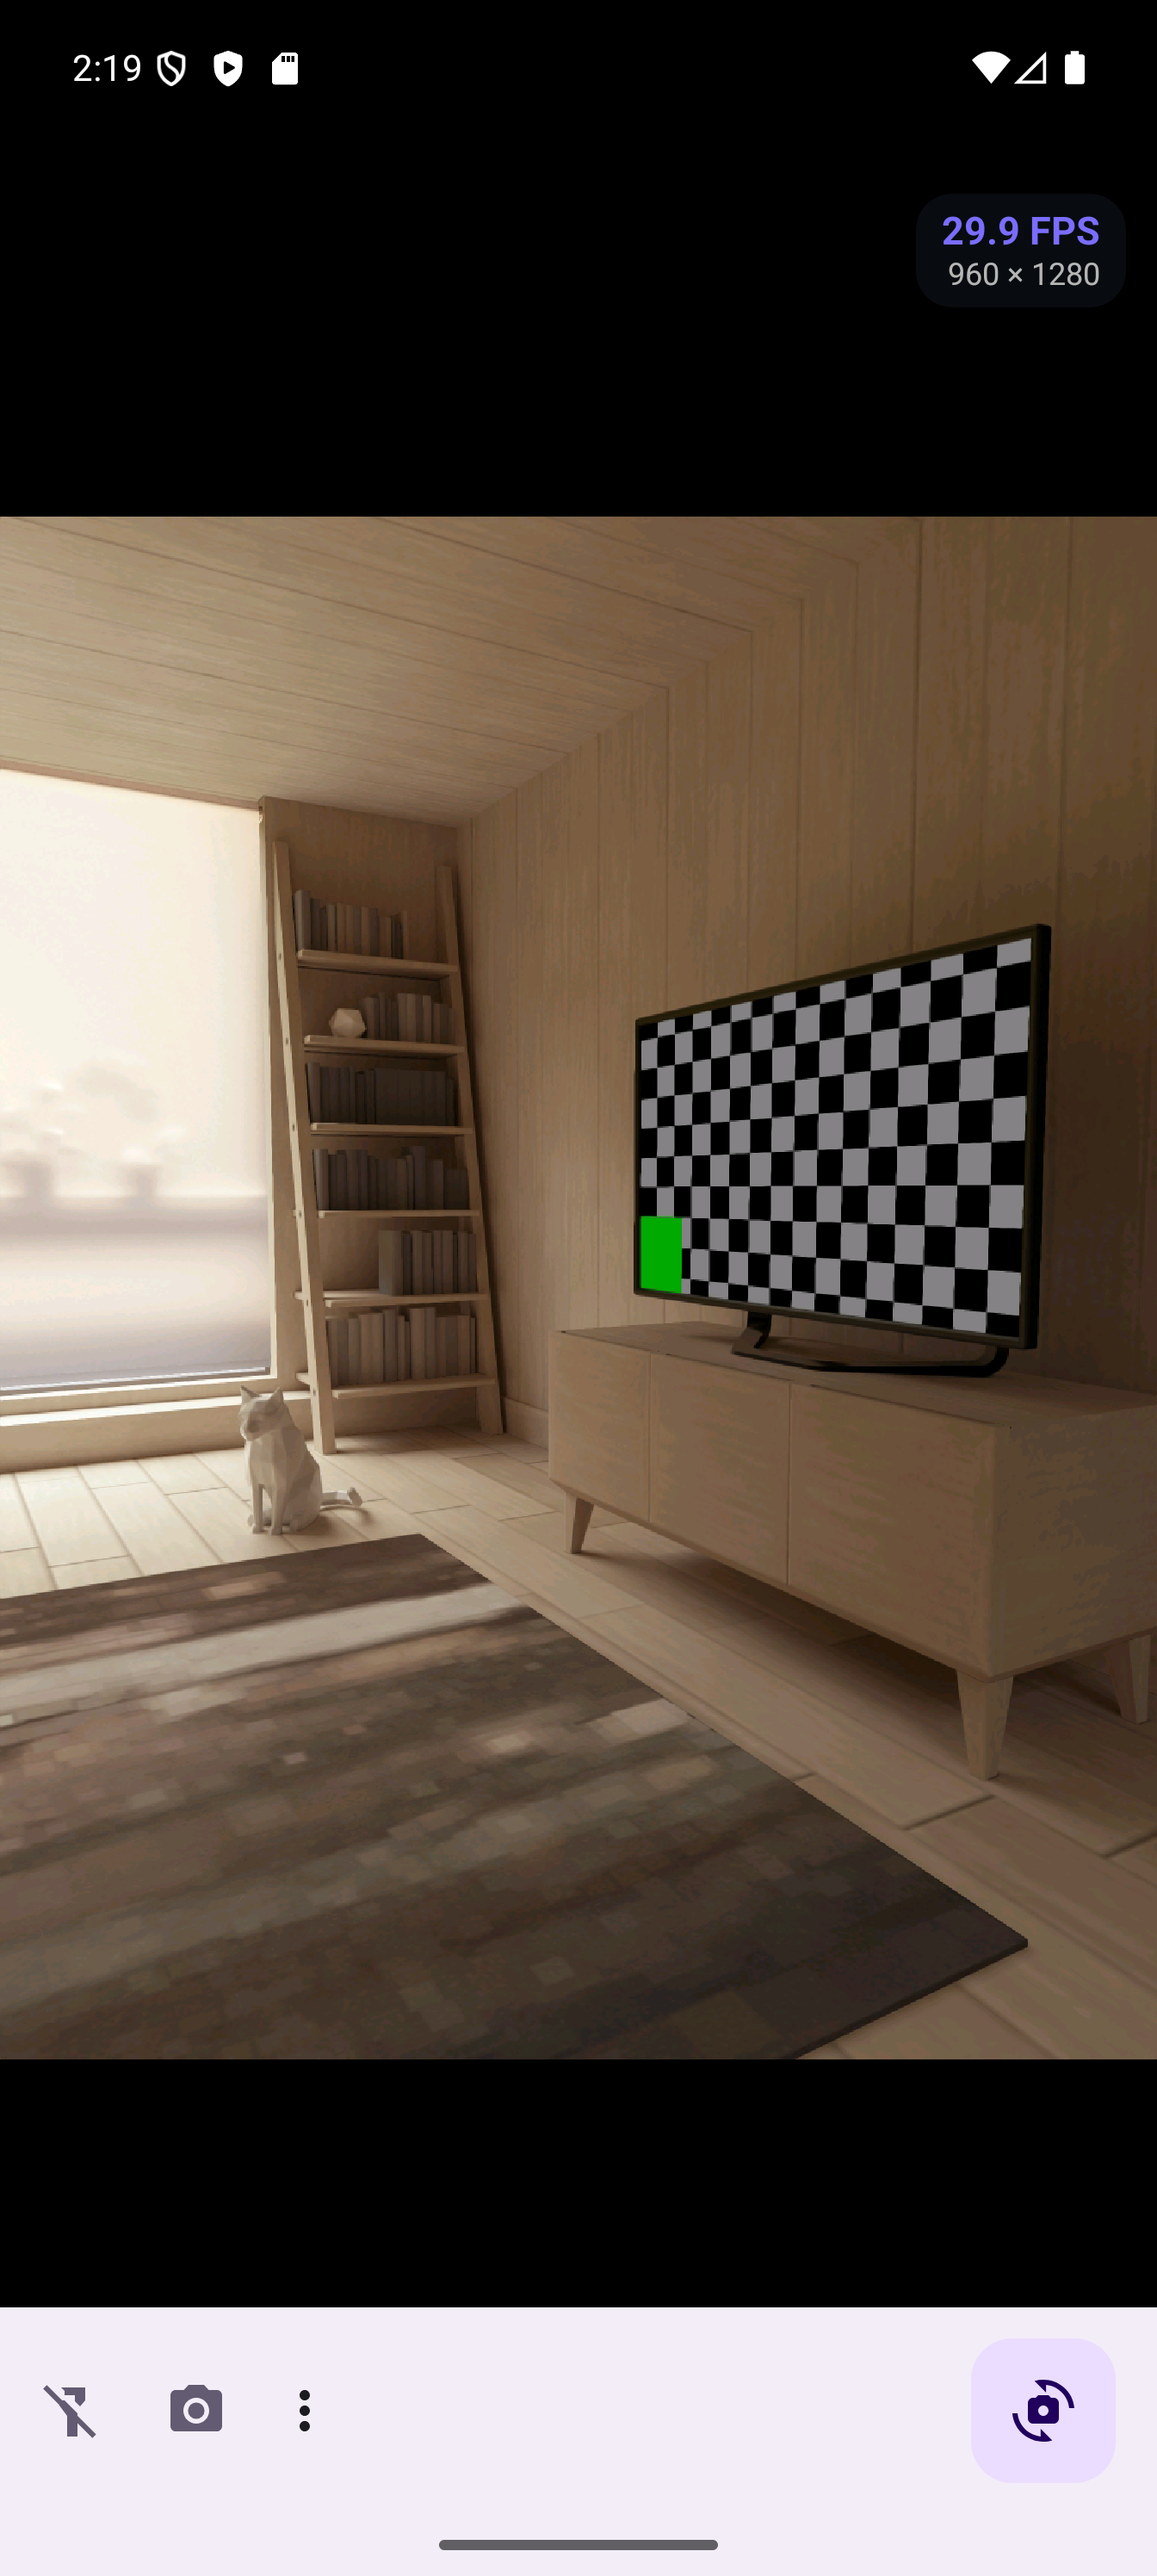
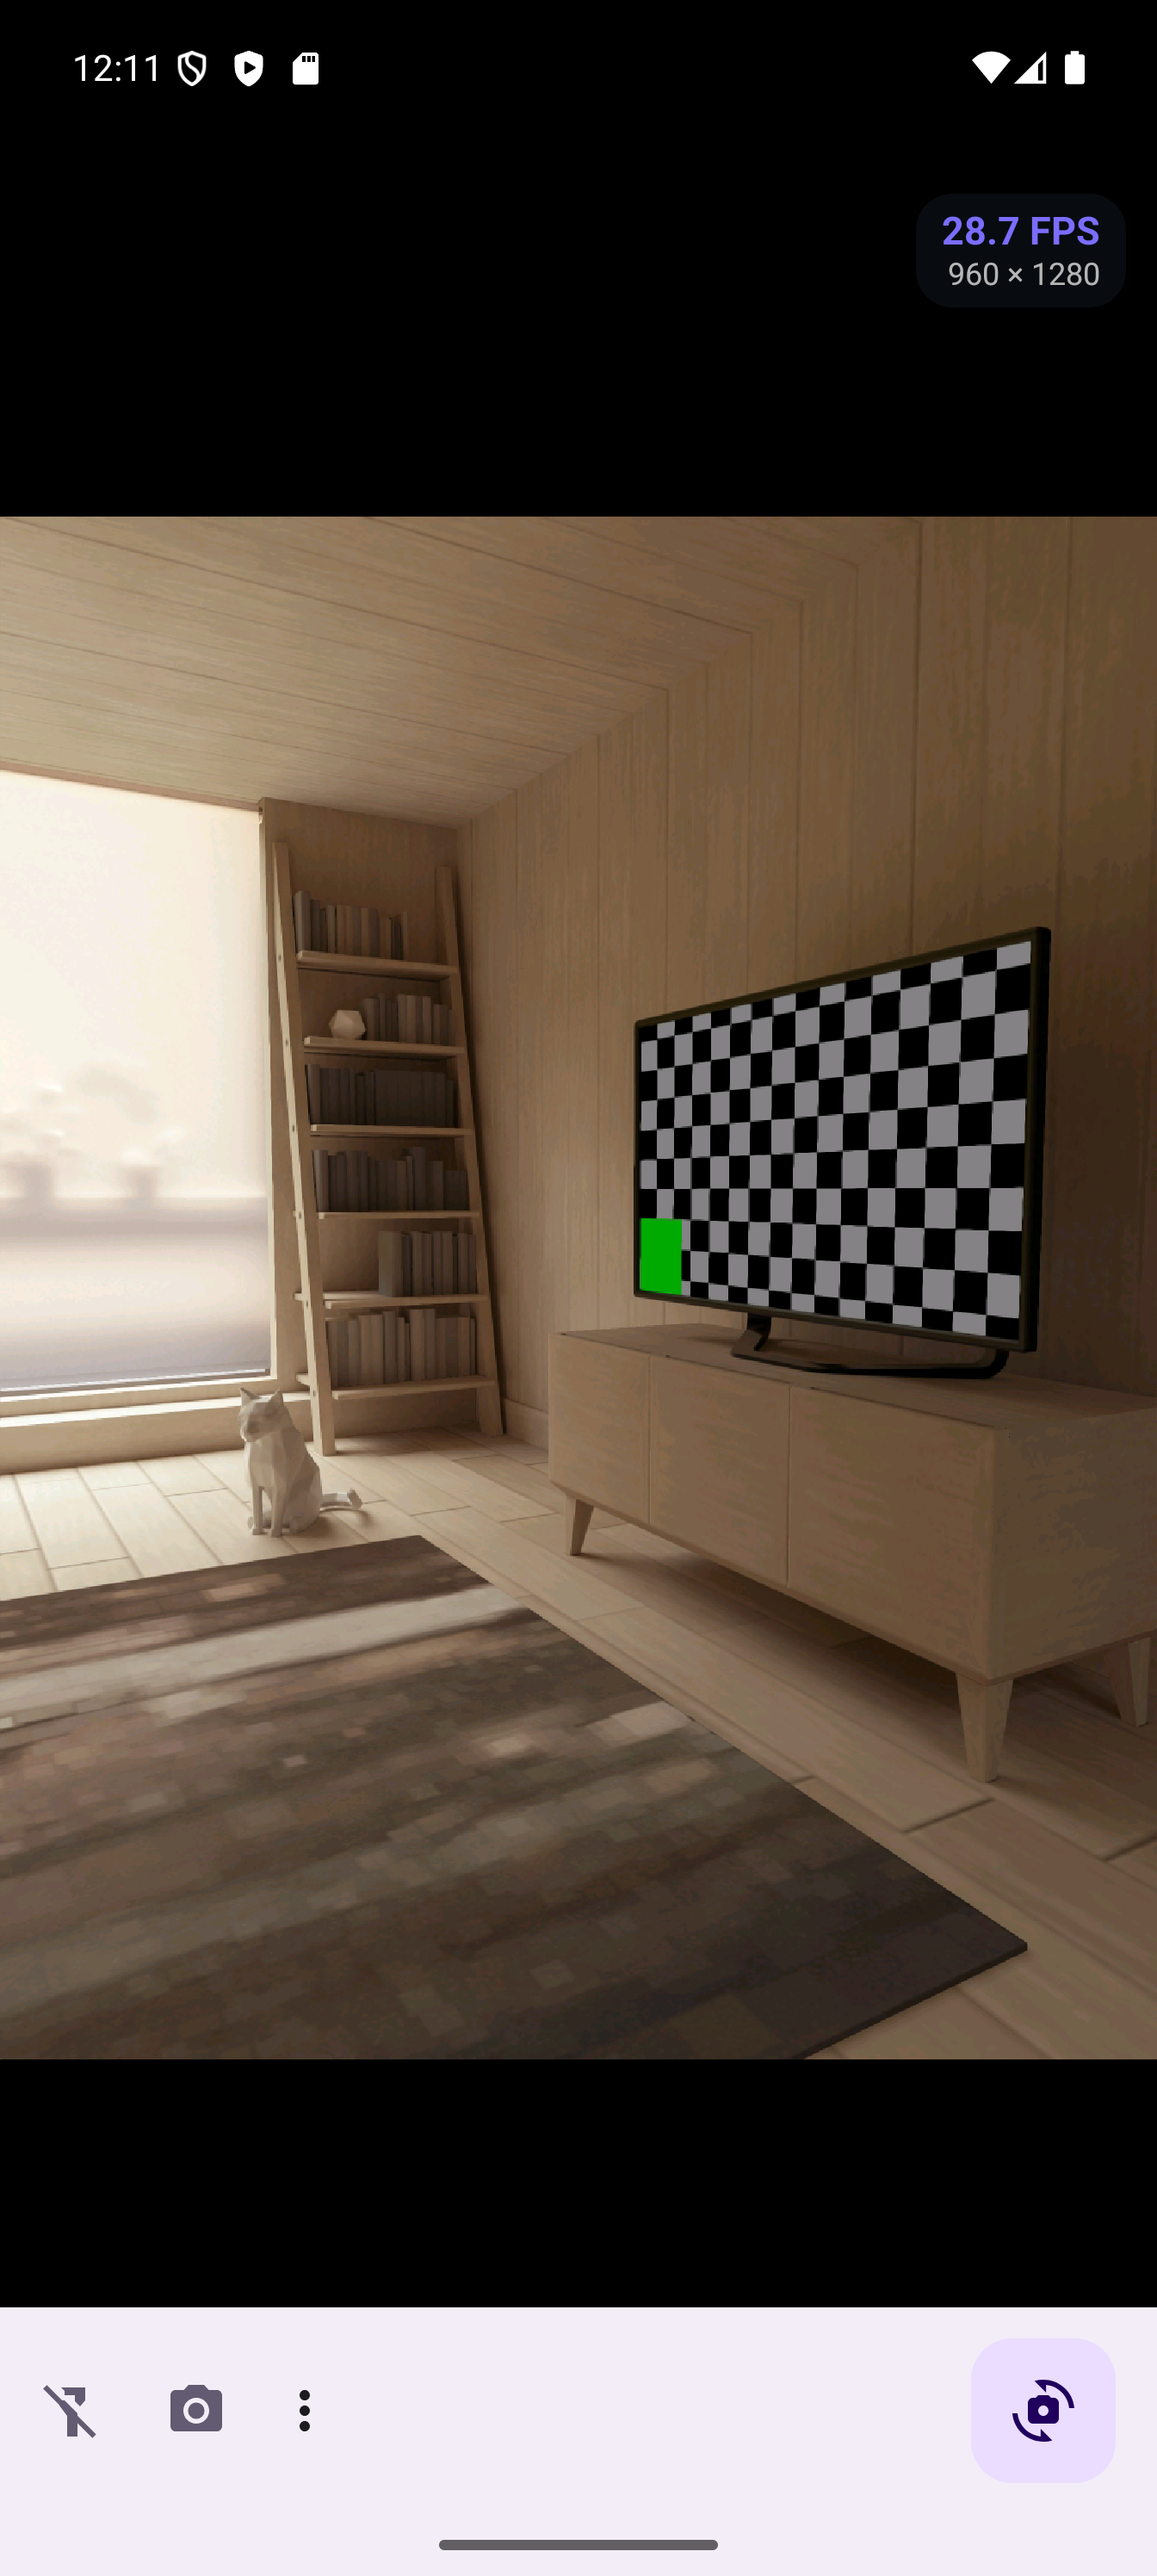
fix: render radio buttons in single choice dialogs

diff --git a/app/src/main/java/com/os/cvCamera/features/FeatureUi.kt b/app/src/main/java/com/os/cvCamera/features/FeatureUi.kt
@@ -1,9 +1,11 @@
 package com.os.cvCamera.features
 
 import android.app.Activity
+import android.widget.ArrayAdapter
 import android.widget.Toast
 import androidx.annotation.StringRes
 import com.google.android.material.dialog.MaterialAlertDialogBuilder
+import com.os.cvCamera.R
 
 // Small helpers shared by the features, so each one does not repeat the same toast and dialog
 // boilerplate.
@@ -25,9 +27,14 @@ internal fun Activity.showSingleChoiceDialog(
     checked: Int,
     onPicked: (Int) -> Unit,
 ) {
+    // A custom row layout is used because Material3 leaves android:listChoiceIndicatorSingle
+    // unset, and the default single choice layout resolves its check mark from that attribute,
+    // so the built in overload draws no radio button at all.
+    val adapter = ArrayAdapter(this, R.layout.item_single_choice, labels)
+
     MaterialAlertDialogBuilder(this)
         .setTitle(title)
-        .setSingleChoiceItems(labels, checked) { dialog, which ->
+        .setSingleChoiceItems(adapter, checked) { dialog, which ->
             dialog.dismiss()
             if (which != checked) onPicked(which)
         }.setNegativeButton(android.R.string.cancel, null)

diff --git a/README.md b/README.md
@@ -19,8 +19,9 @@
 [![snyk-security](https://snyk.io/test/github/onuralpszr/CvCamera-Mobile/badge.svg)](https://snyk.io/test/github/onuralpszr/CvCamera-Mobile)
 [![Conventional Commits](https://img.shields.io/badge/Conventional%20Commit-1.0.0-FE5196?logo=conventionalcommits&logoColor=white)](https://conventionalcommits.org)
 
-<img src="appPreview/appOverview.png" width="220" alt="Live preview with the FPS overlay"/>
-<img src="appPreview/appOverview2.png" width="220" alt="Canny edge detection on the live preview"/>
+<img src="appPreview/appOverview.png" width="220" alt="Live camera preview with the FPS overlay"/>
+<img src="appPreview/appOverview2.png" width="220" alt="Bottom bar menu"/>
+<img src="appPreview/appOverview3.png" width="220" alt="Effect picker"/>
 
 </div>
 
